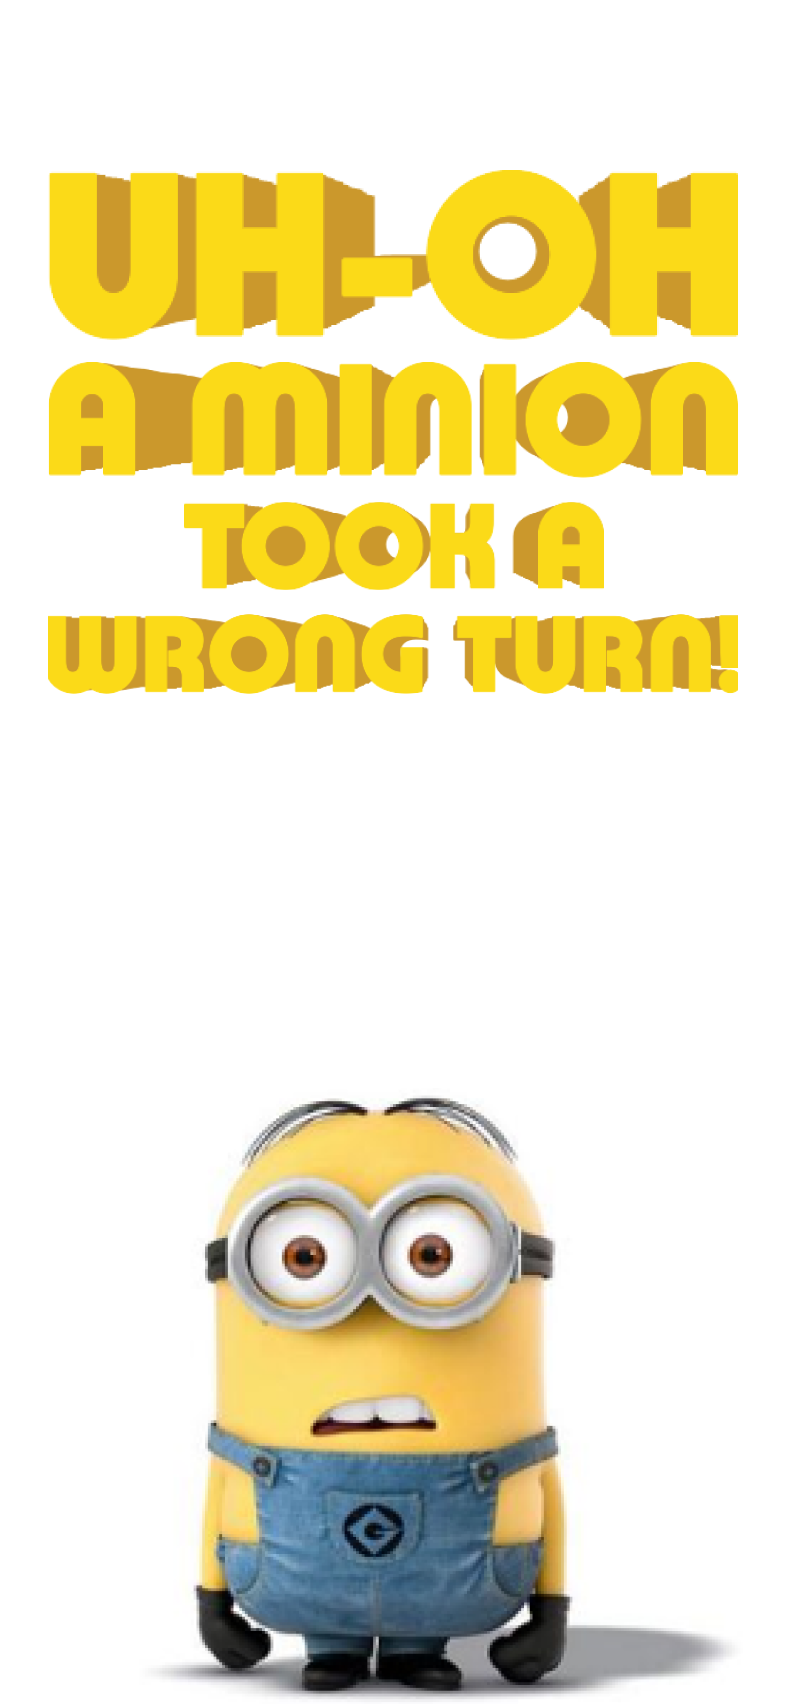
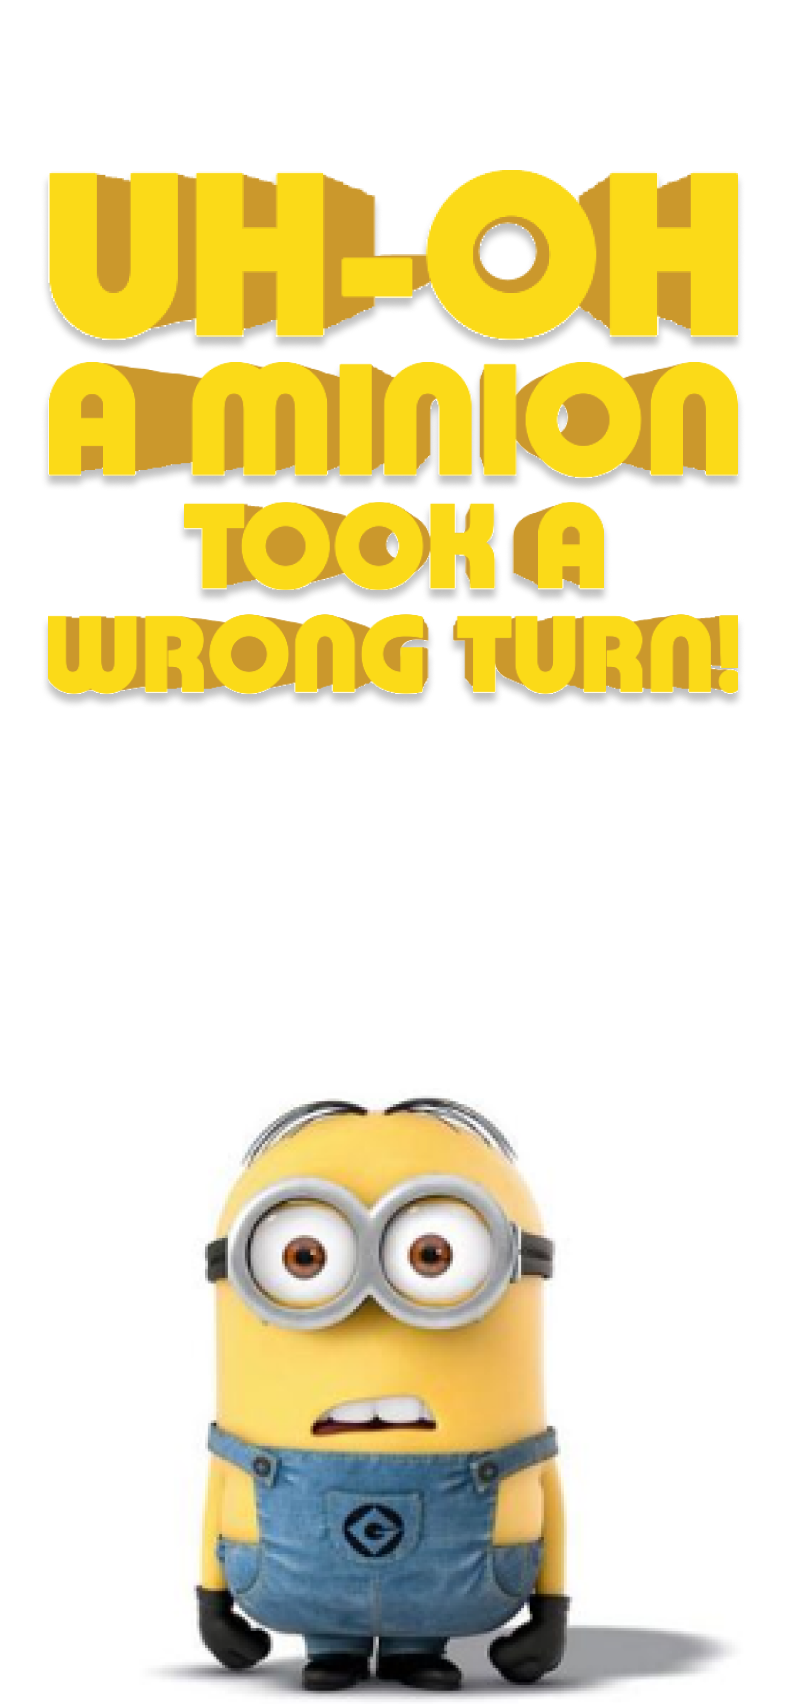
added images

diff --git a/app/map.tsx b/app/map.tsx
@@ -1,15 +1,50 @@
-import React from "react";
-import { View, Text, StyleSheet, ImageBackground } from "react-native";
+import React, { useState, useRef } from "react";
+import {
+  View,
+  Text,
+  StyleSheet,
+  ImageBackground,
+  TouchableOpacity,
+  Animated,
+  Dimensions,
+} from "react-native";
 
 export default function Map() {
+  // Screen height
+  const screenHeight = Dimensions.get("window").height;
+
+  // Bottom sheet position controlled by Animated.Value
+  const bottomSheetPosition = useRef(new Animated.Value(screenHeight)).current;
+
+  // Function to open the bottom sheet
+  const openBottomSheet = () => {
+    Animated.timing(bottomSheetPosition, {
+      toValue: screenHeight * 0.65, // Slide up to cover 35% of the screen
+      duration: 300,
+      useNativeDriver: true,
+    }).start();
+  };
+
   return (
     <ImageBackground
-      source={require("../assets/images/backgrounds/map.png")}
+      source={require("../assets/images/backgrounds/mapTitle.png")}
       style={styles.background}
     >
       <View style={styles.container}>
-        <View></View>
+        <TouchableOpacity onPress={openBottomSheet} style={styles.button}>
+          <Text>Open Bottom Sheet</Text>
+        </TouchableOpacity>
       </View>
+      <Animated.View
+        style={[
+          styles.bottomSheet,
+          {
+            transform: [{ translateY: bottomSheetPosition }],
+          },
+        ]}
+      >
+        <Text>Slide Up Bottom Sheet Content Here</Text>
+      </Animated.View>
     </ImageBackground>
   );
 }
@@ -24,5 +59,23 @@ const styles = StyleSheet.create({
     justifyContent: "center",
     paddingTop: 200,
     padding: 24,
+  },
+  bottomSheet: {
+    position: "absolute",
+    height: "35%",
+    width: "100%",
+    backgroundColor: "#fff",
+    borderTopLeftRadius: 20,
+    borderTopRightRadius: 20,
+    padding: 16,
+    justifyContent: "center",
+    alignItems: "center",
+    bottom: 0,
+  },
+  button: {
+    alignSelf: "center",
+    backgroundColor: "#007bff",
+    padding: 10,
+    borderRadius: 5,
   },
 });

diff --git a/app/minion.tsx b/app/minion.tsx
@@ -15,7 +15,7 @@ export default function Minion() {
   const router = useRouter();
 
   const handlePress = () => {
-    router.push("/countdown");
+    router.push("/loading");
   };
 
   return (
